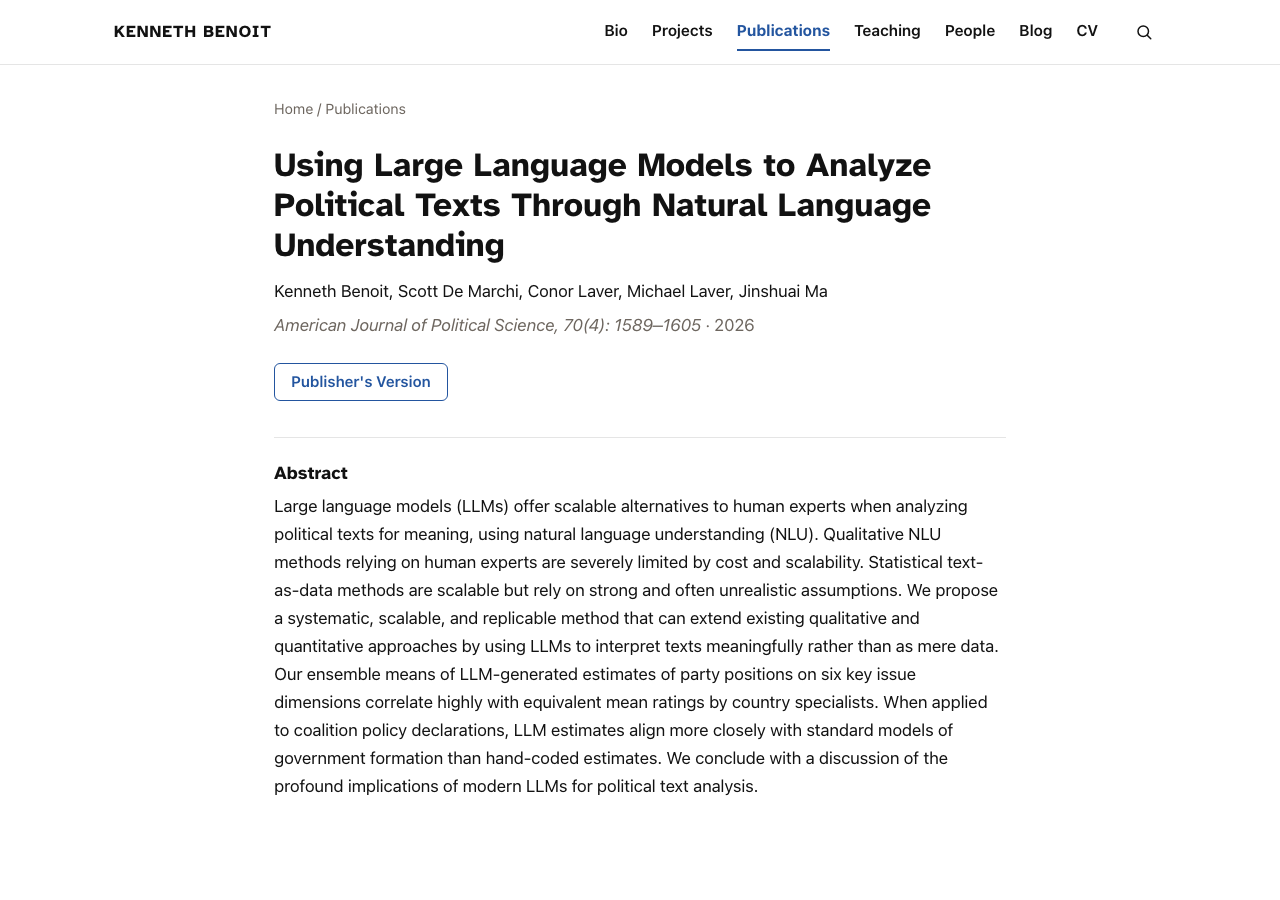
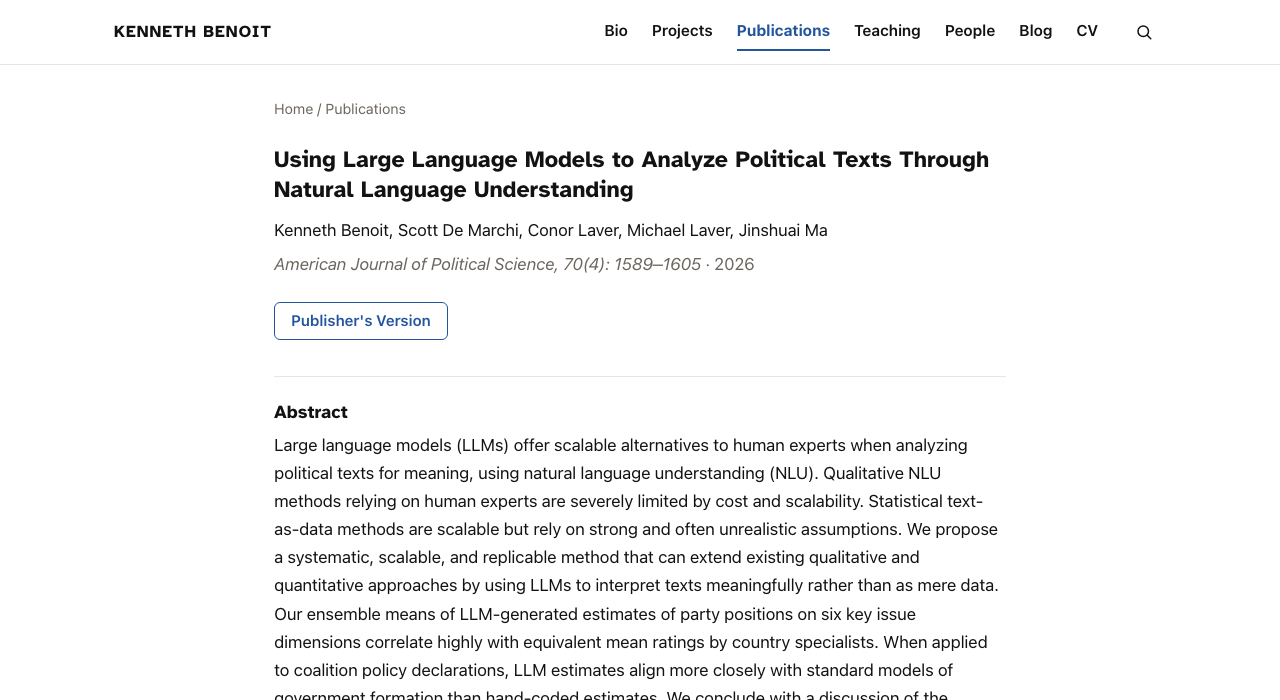
Reduce name, publication title and photo sizes; refresh screenshots

diff --git a/assets/css/custom.css b/assets/css/custom.css
@@ -97,15 +97,15 @@ a:hover { color: var(--color-link-hover-text); }
 
 /* ---- Home hero ---- */
 .hero { display: flex; flex-direction: column; gap: 1.75rem; padding-top: 3rem; padding-bottom: 4rem; }
-.hero-photo { width: 200px; height: 200px; border-radius: 16px; object-fit: cover; box-shadow: var(--shadow-soft); flex: none; }
+.hero-photo { width: 150px; height: 150px; border-radius: 12px; object-fit: cover; box-shadow: var(--shadow-soft); flex: none; }
 .eyebrow { margin: 0 0 0.5rem; font-family: var(--font-hyperlegible); font-weight: 700; font-size: 0.8rem; letter-spacing: 0.14em; text-transform: uppercase; }
 .eyebrow a { color: var(--color-accent); text-decoration: none; }
 .eyebrow a:hover { color: var(--color-link-hover-text); text-decoration: underline; }
-.hero h1 { margin: 0; font-size: clamp(2.25rem, 5vw, 3.25rem); font-weight: 700; letter-spacing: -0.01em; }
-.hero-title { margin: 0.5rem 0 0; font-size: 1.1rem; color: var(--color-text-muted); max-width: 40rem; }
+.hero h1 { margin: 0; font-size: clamp(1.6rem, 3vw, 2rem); font-weight: 700; }
+.hero-title { margin: 0.4rem 0 0; font-size: 1rem; color: var(--color-text-muted); max-width: 40rem; }
 .hero-intro { margin: 1.25rem 0 0; max-width: 40rem; }
 @media (min-width: 720px) {
-  .hero { flex-direction: row; align-items: flex-start; gap: 3rem; padding-top: 4.5rem; }
+  .hero { flex-direction: row; align-items: flex-start; gap: 2.5rem; padding-top: 3.5rem; }
 }
 
 /* ---- Publication page ---- */
@@ -113,7 +113,7 @@ a:hover { color: var(--color-link-hover-text); }
 .crumbs { font-size: 0.9rem; color: var(--color-text-muted); margin-bottom: 1.5rem; }
 .crumbs a { color: var(--color-text-muted); }
 .crumbs a:hover { color: var(--color-link-hover-text); }
-.pub h1 { margin: 0 0 0.75rem; font-size: clamp(1.6rem, 3.5vw, 2.1rem); font-weight: 700; }
+.pub h1 { margin: 0 0 0.75rem; font-size: clamp(1.2rem, 2vw, 1.45rem); font-weight: 700; line-height: 1.3; }
 .pub-authors { margin: 0; font-size: 1.05rem; }
 .pub-venue { margin: 0.35rem 0 0; color: var(--color-text-muted); }
 .pub-year::before { content: "· "; }

diff --git a/layouts/landing/list.html b/layouts/landing/list.html
@@ -4,8 +4,8 @@
 <main id="main" class="wrap home" data-pagefind-body>
   <section class="hero" aria-labelledby="hero-name">
     {{ with $photo }}
-      {{- $img := .Resize "400x400 jpg q85" -}}
-      <img class="hero-photo" src="{{ $img.RelPermalink }}" width="200" height="200" alt="{{ $o.photo_alt }}" fetchpriority="high" decoding="async" />
+      {{- $img := .Resize "300x300 jpg q85" -}}
+      <img class="hero-photo" src="{{ $img.RelPermalink }}" width="150" height="150" alt="{{ $o.photo_alt }}" fetchpriority="high" decoding="async" />
     {{ end }}
     <div class="hero-text">
       <p class="eyebrow"><a href="{{ $o.institution_url }}">{{ $o.institution }}</a></p>
